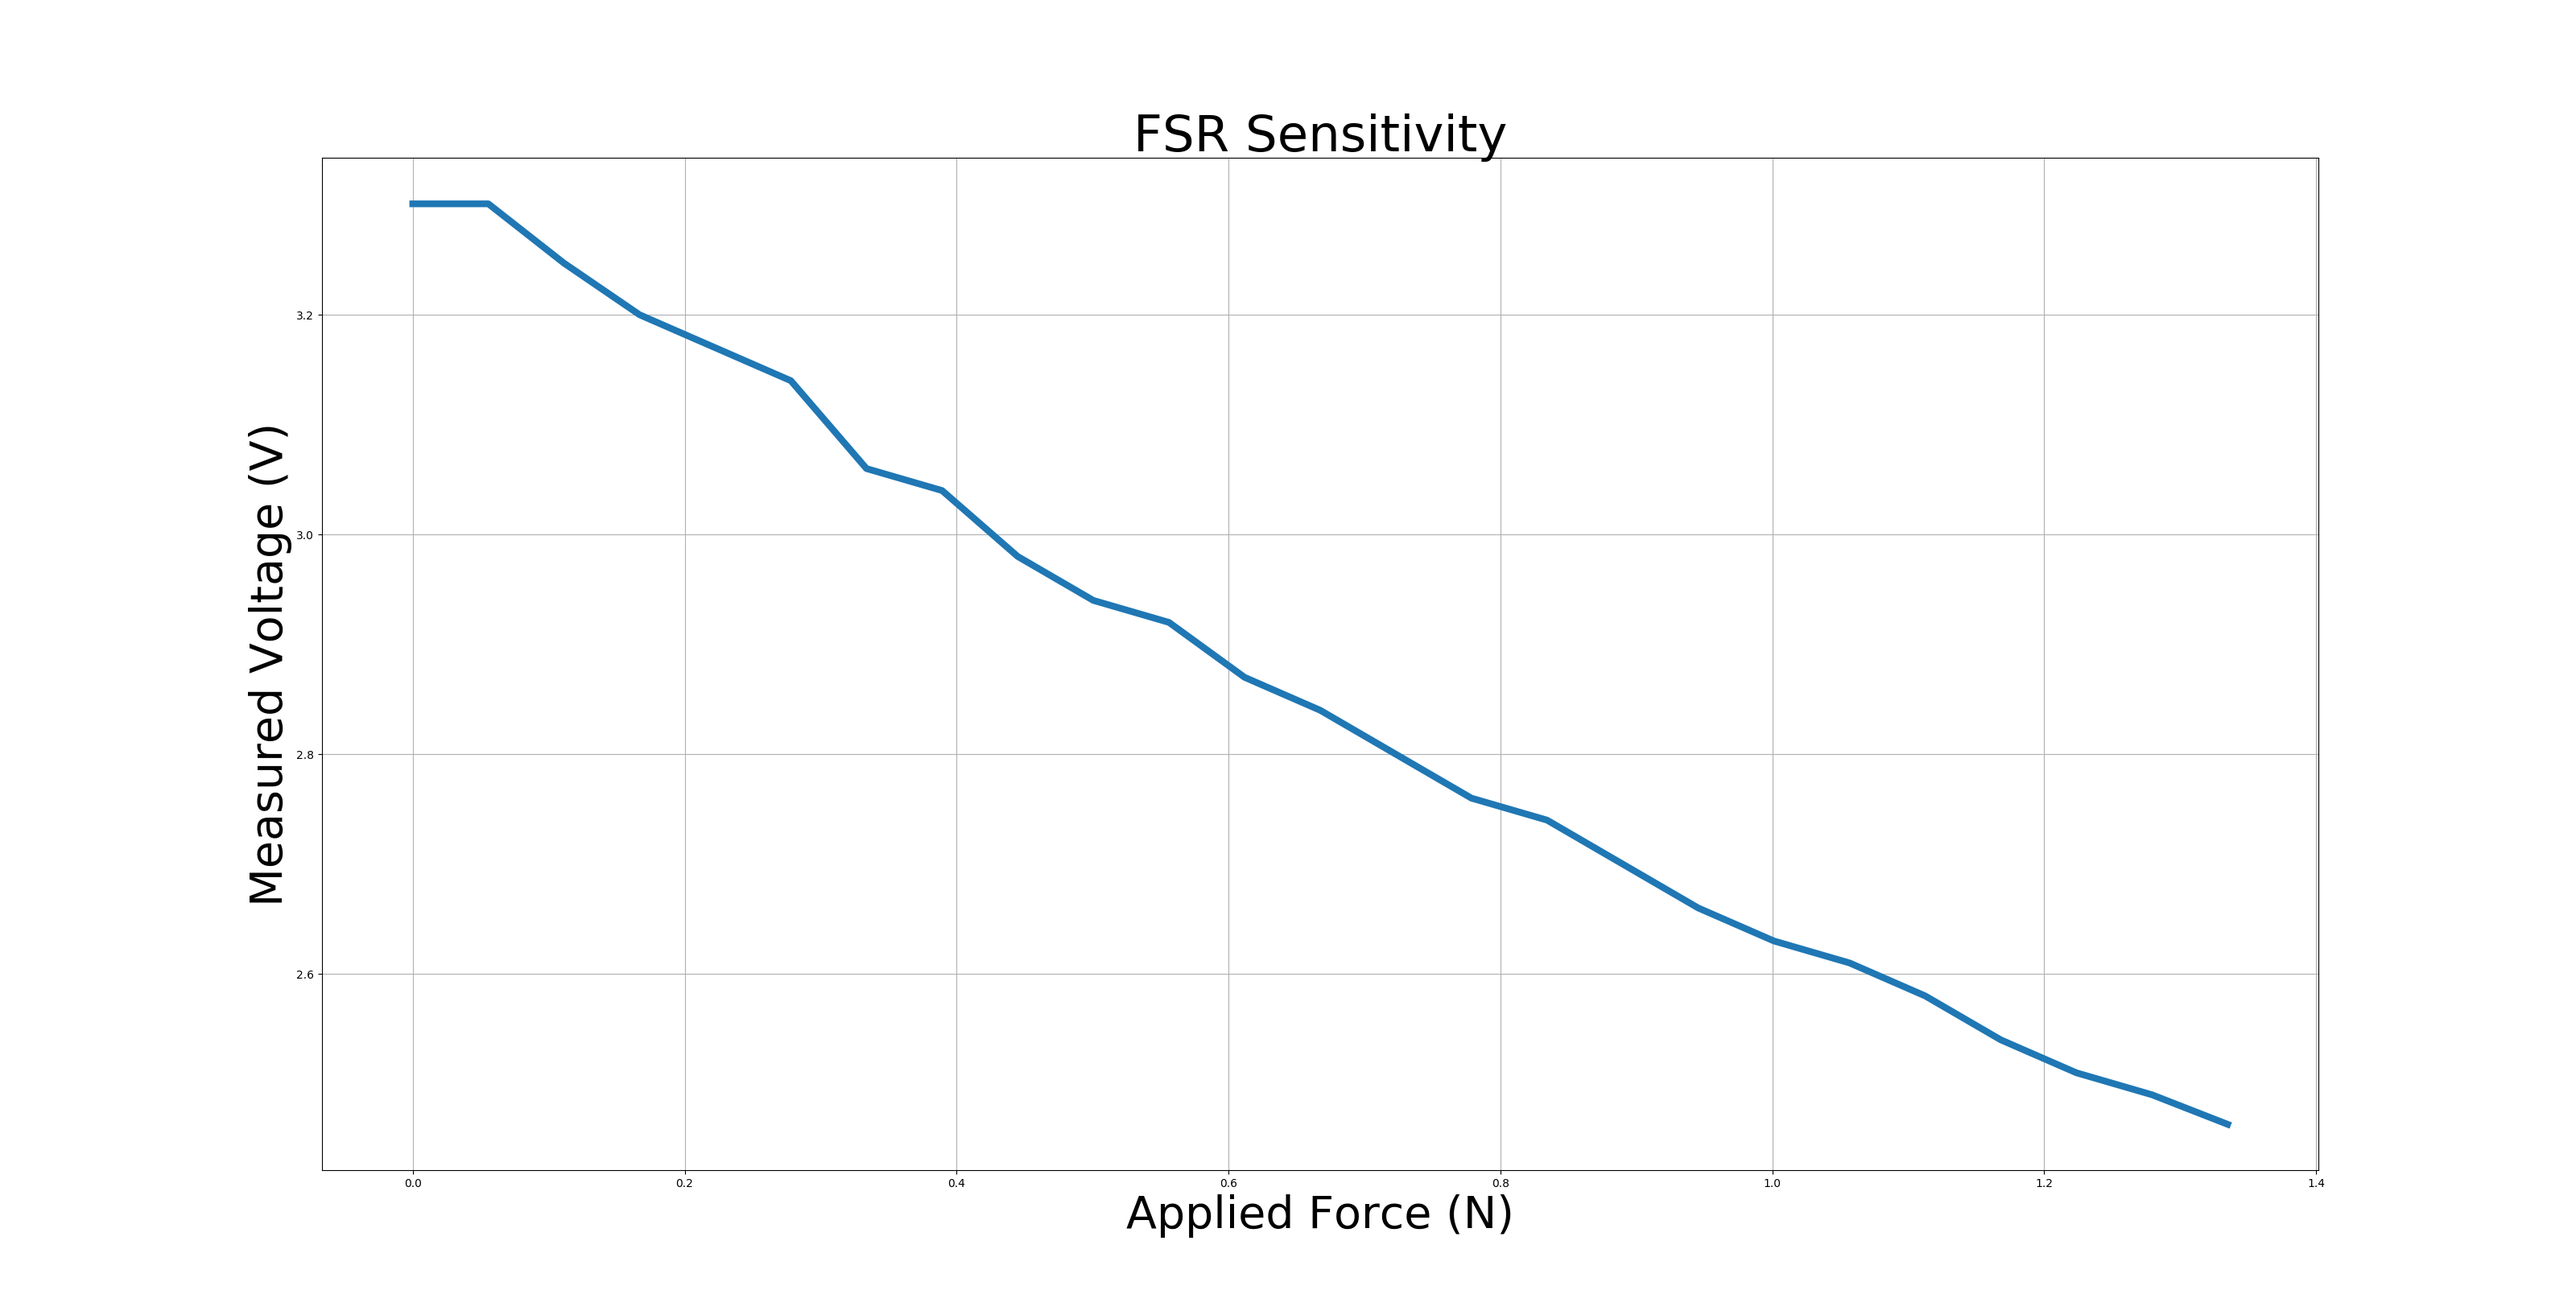
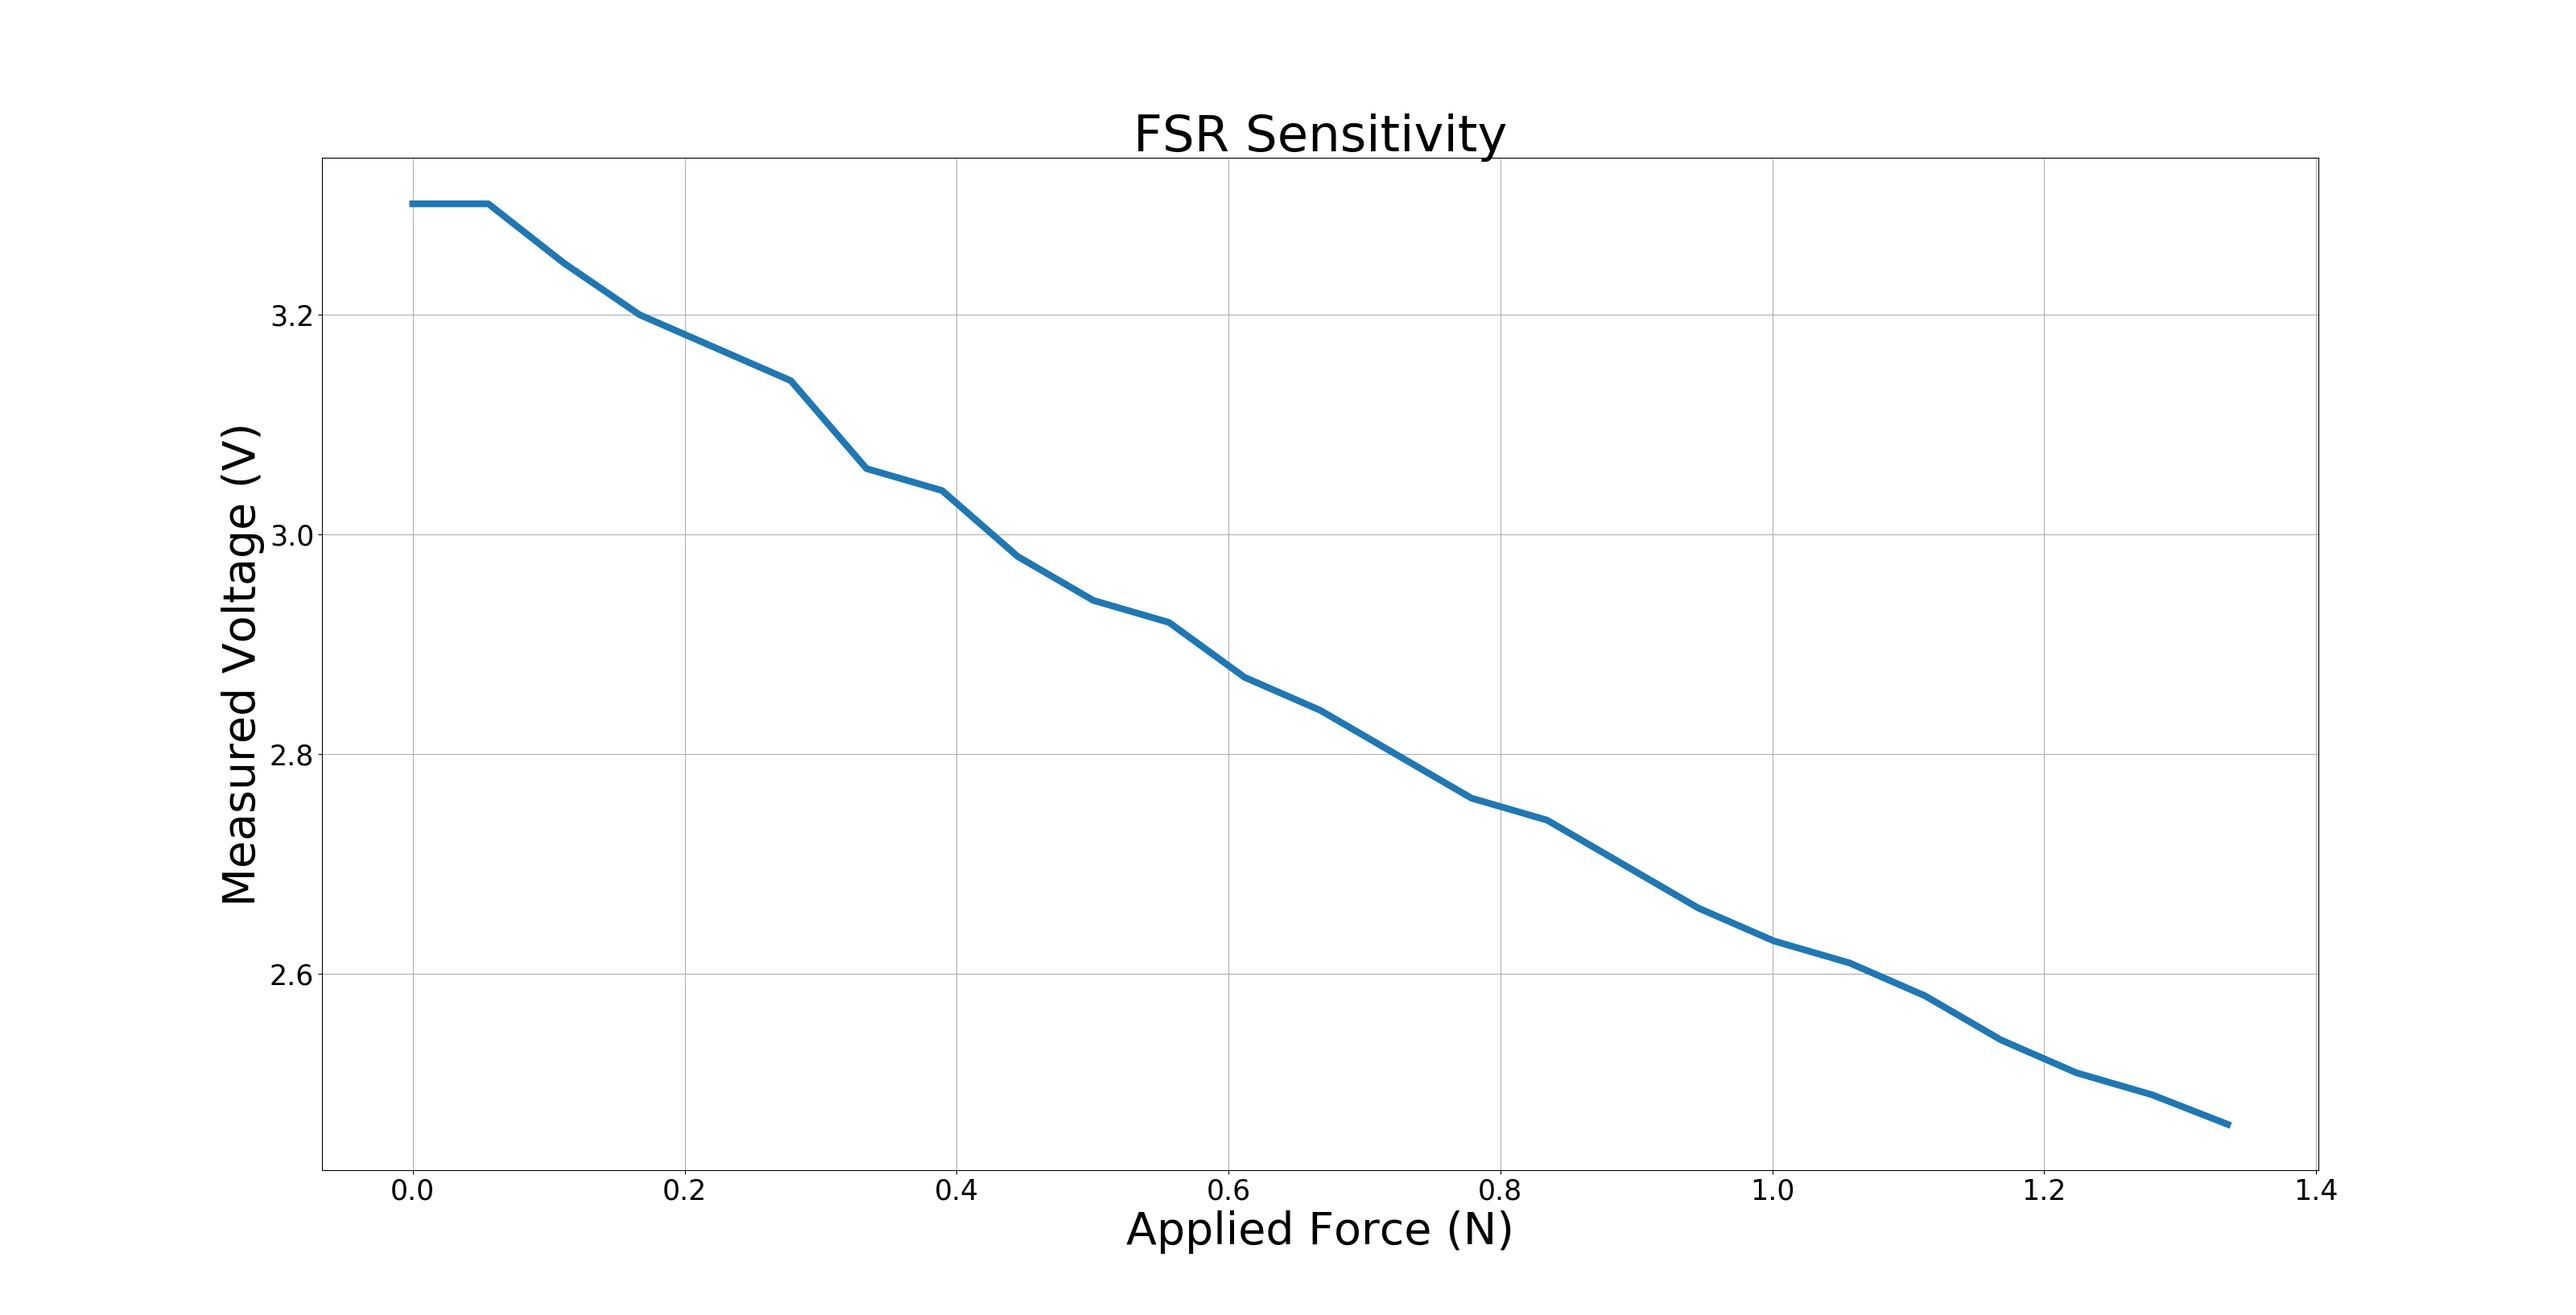
updates

Changed region(s): [[0.0625, 0.3121, 0.125, 0.6867], [0.4375, 0.9051, 0.5938, 0.9676]]

diff --git a/plots/ir_plot.py b/plots/ir_plot.py
@@ -42,5 +42,8 @@ ir.axis["bottom"].label.set_size(40)
 par2.axis["right"].label.set_color(p2.get_color())
 par2.axis["right"].label.set_size(40)
 
+ir.axis["left"].xticks(fontsize=25)
+
+
 plt.draw()
 plt.show()

diff --git a/plots/fsr_plot.py b/plots/fsr_plot.py
@@ -19,6 +19,10 @@ ax.xaxis.label.set_size(40)
 ax.yaxis.label.set_size(40)
 ax.title.set_size(45)
 
+plt.xticks(fontsize=25)
+plt.yticks(fontsize=25)
+
+
 ax.grid()
 
 plt.show()
